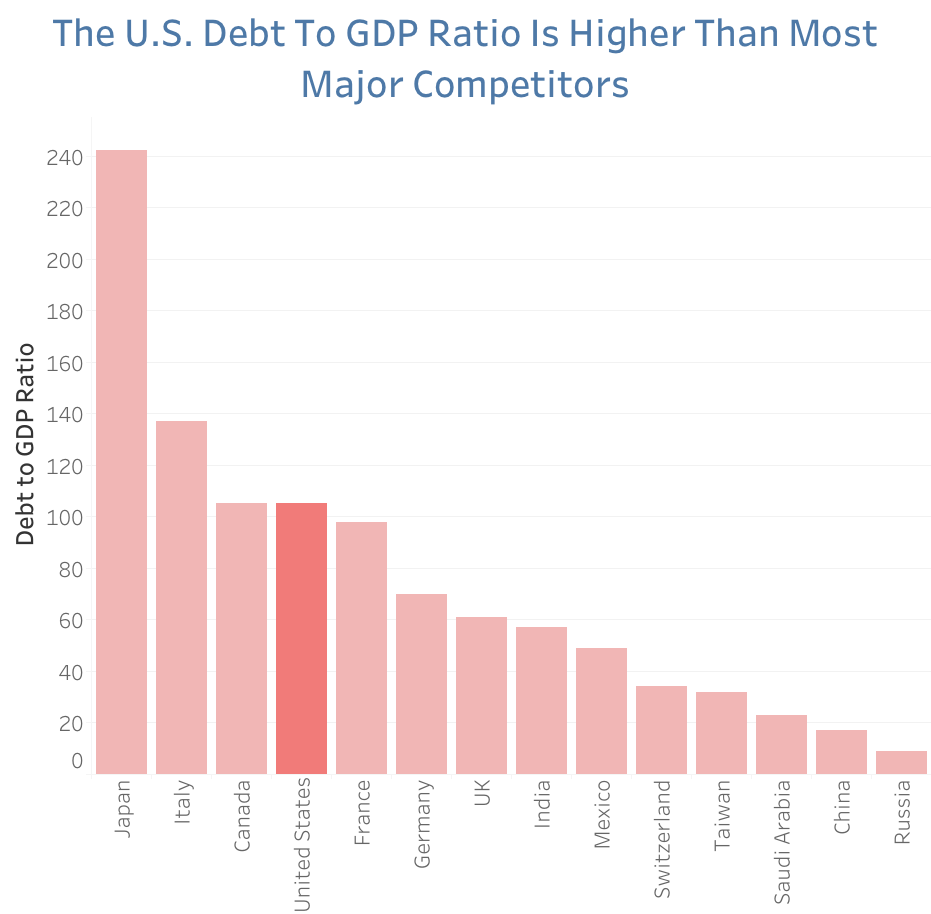
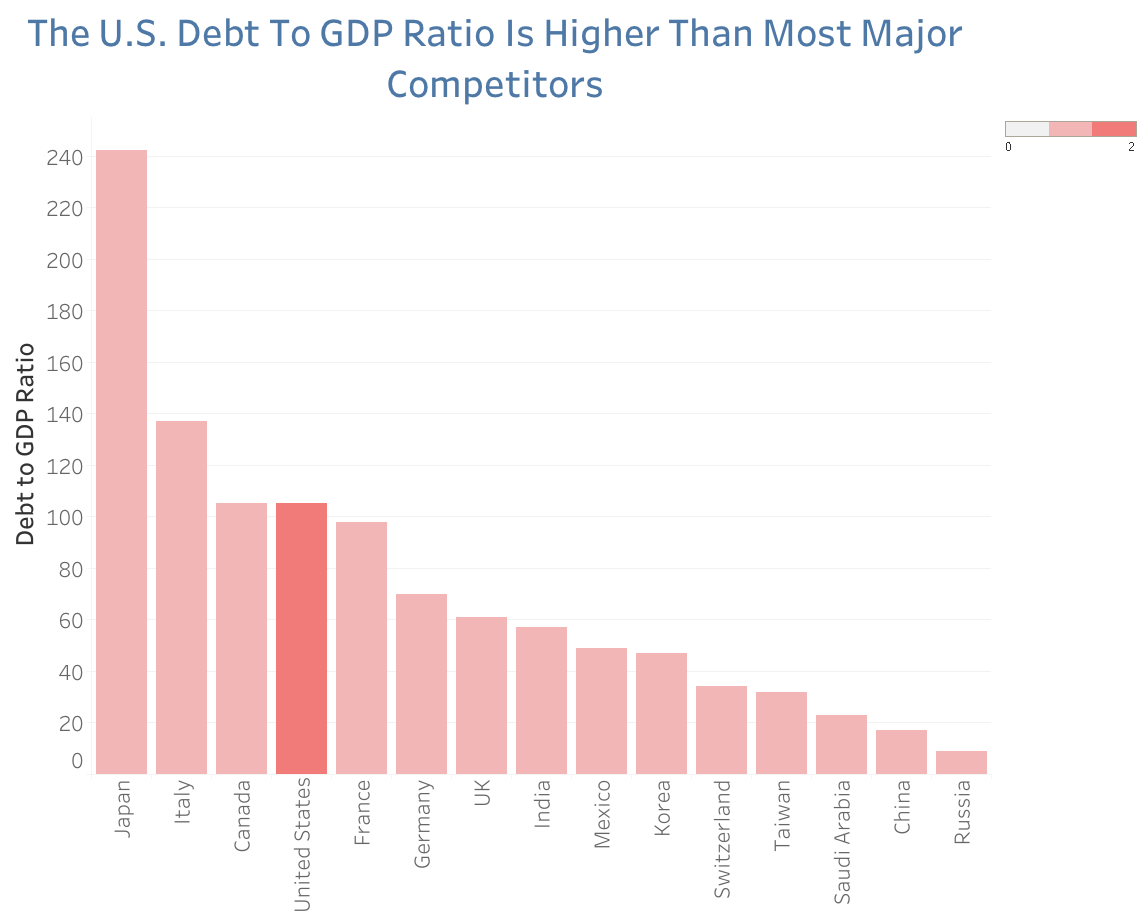
added korea

diff --git a/Debt.html b/Debt.html
@@ -597,7 +597,7 @@
                     <h6>blank line</h6>
                     <!-- end debt clock-->
                     <a href="#" class="image">
-						<img width="559" height="548" src="slides/debt_by_country.png"  alt="debt_by_country" >
+						<img width="685" height="548" src="slides/debt_by_country.png"  alt="debt_by_country" >
 					</a>
 				</section>
 
